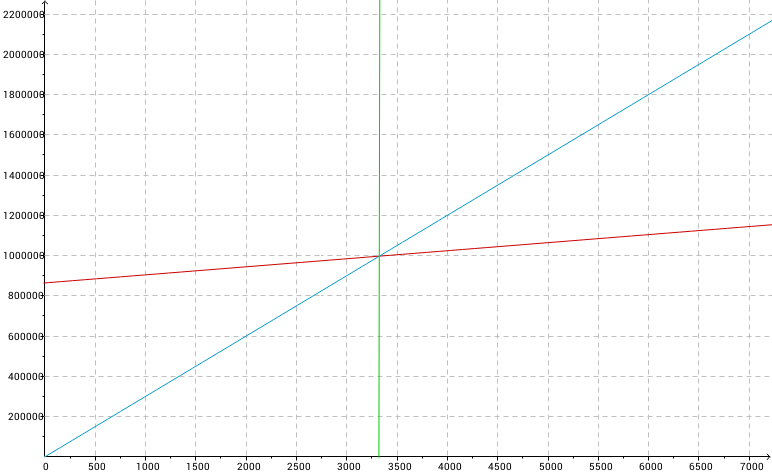
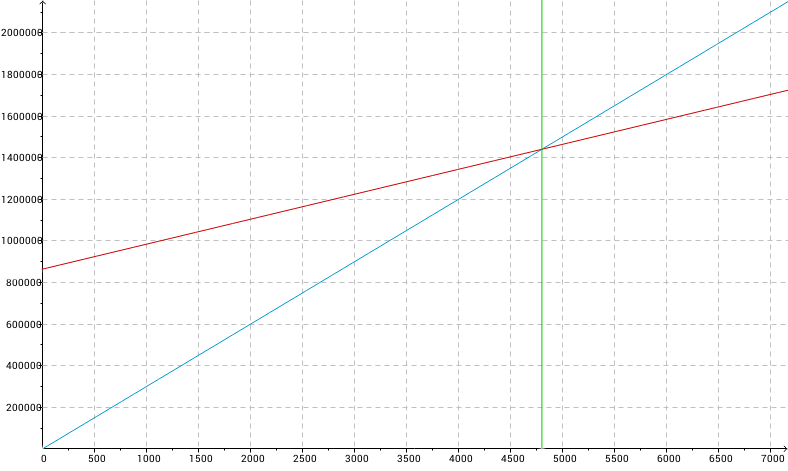
matte og sånn. NÅ ER DET I ÅRN

diff --git a/project/section/markedsanalyse.tex b/project/section/markedsanalyse.tex
@@ -49,7 +49,7 @@ før prosjektet går i overskudd.
 
 Kongsberg Automotives representanter anbefalte en salgspris på maksimum 100 kr.
 per aksling, noe som gir en total på 300 kr. per bil. Medregnet de beregnede 
-dagsverk, må det beregnes et salg på 3324 enheter før prosjektet går i overskudd.
+dagsverk, må det beregnes et salg på 4800 enheter før prosjektet går i overskudd.
 
 \section{Markedsadgang}
 Ettermontering av produktet vil være dyrere enn montering under produksjon av 
